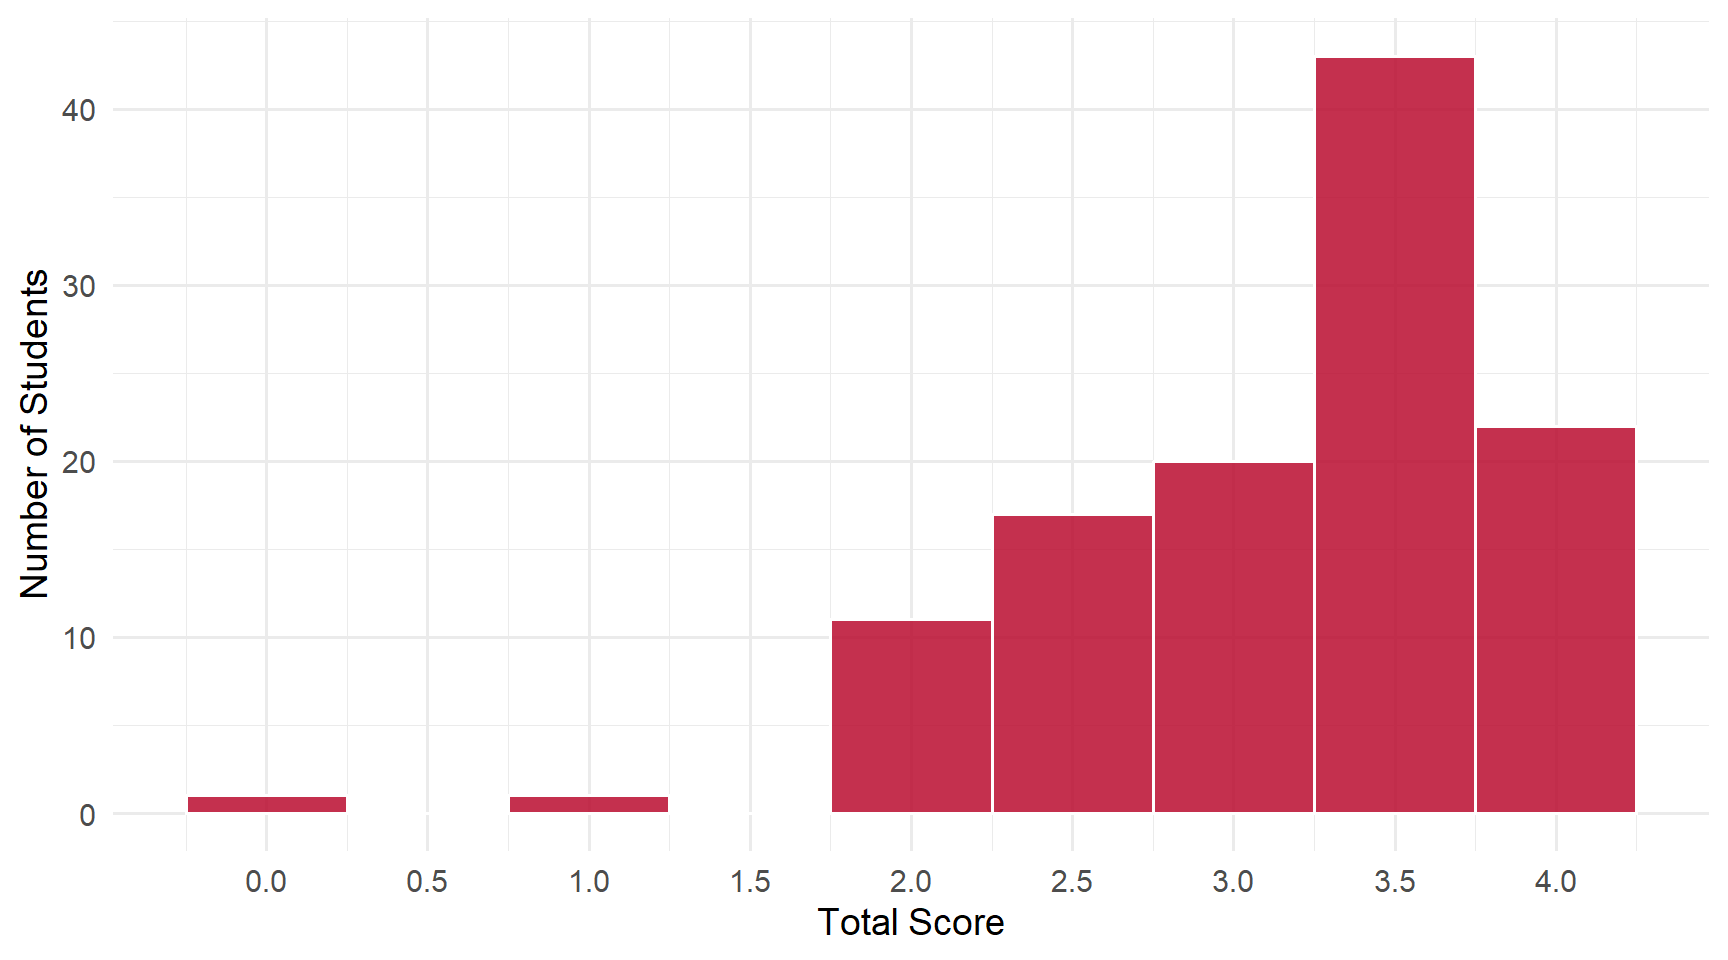
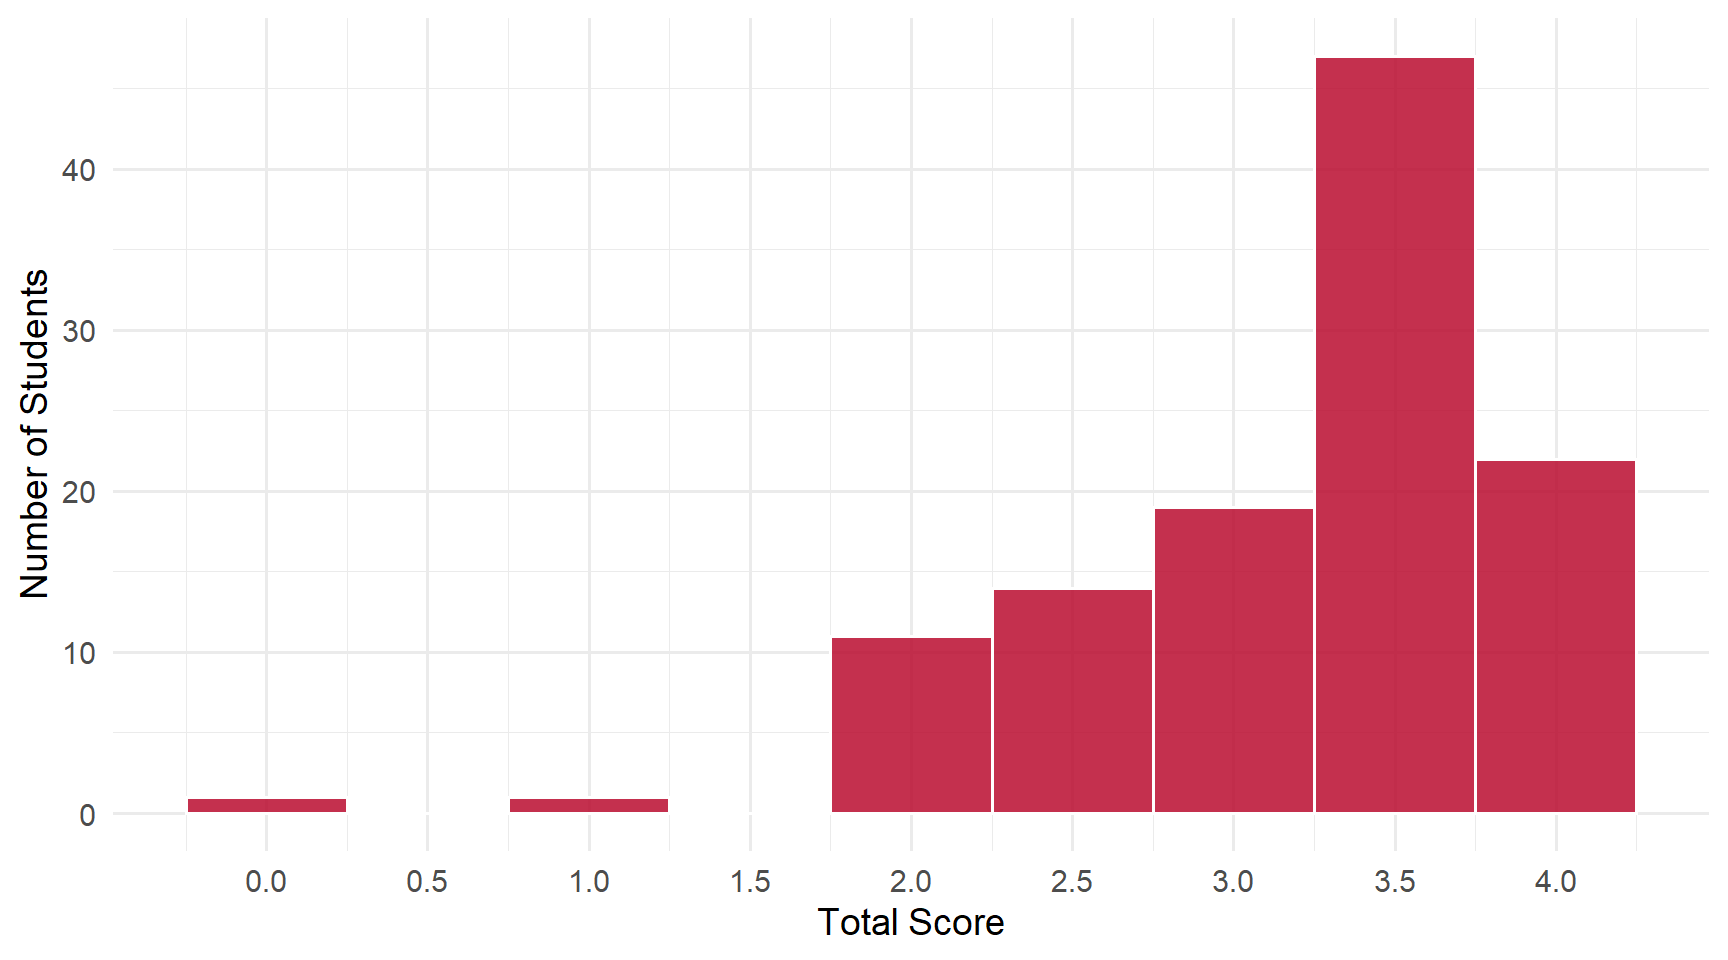
Update Daily 7 and Daily 8 grading corrections
Daily 7: Shortened 1/N vs 1/(N-1) note.
Daily 8: Accept √(var̂(Ȳ)) as full credit for SE formula (7 students updated).
Updated common errors in both dailies.

diff --git a/busn5000-spring2026/daily_08.html b/busn5000-spring2026/daily_08.html
@@ -116,7 +116,6 @@ window.Quarto = {
   </div>
 </nav>
 <style>
-  /* === Main Site Nav Bar (matches Jekyll masthead exactly) === */
   #site-main-nav {
     position: fixed;
     top: 0;
@@ -181,17 +180,11 @@ window.Quarto = {
   body {
     padding-top: 52px !important;
   }
-
-  /* === UGA Typography Overrides for Quarto Content === */
-
-  /* Body text - Georgia (Secondary Serif) */
   body, p, .content, main {
     font-family: Georgia, serif !important;
     letter-spacing: -0.005em;
     line-height: 1.6;
   }
-
-  /* h1 - Oswald (Primary Sans-Serif) */
   h1, .title {
     font-family: 'Oswald', sans-serif !important;
     font-weight: 500;
@@ -199,8 +192,6 @@ window.Quarto = {
     line-height: 1.1;
     color: #BA0C2F;
   }
-
-  /* h2, h3 - Merriweather (Primary Serif) */
   h2, h3 {
     font-family: 'Merriweather', serif !important;
     font-weight: 700;
@@ -208,8 +199,6 @@ window.Quarto = {
     line-height: 1.2;
     color: #BA0C2F;
   }
-
-  /* h4, h5, h6 - Oswald */
   h4, h5, h6 {
     font-family: 'Oswald', sans-serif !important;
     font-weight: 400;
@@ -217,8 +206,6 @@ window.Quarto = {
     line-height: 1.3;
     color: #BA0C2F;
   }
-
-  /* Sidebar navigation - Merriweather Sans (Secondary Sans-Serif) */
   .sidebar-title,
   .sidebar-item-text,
   .sidebar-navigation,
@@ -229,8 +216,6 @@ window.Quarto = {
     font-weight: 400;
     letter-spacing: -0.01em;
   }
-
-  /* Quarto secondary nav / breadcrumbs */
   .quarto-secondary-nav,
   .quarto-page-breadcrumbs,
   .breadcrumb-item,
@@ -238,8 +223,6 @@ window.Quarto = {
     font-family: 'Merriweather Sans', sans-serif !important;
     font-weight: 400;
   }
-
-  /* Tables - Georgia for body, Merriweather Sans for headers */
   table, td {
     font-family: Georgia, serif !important;
     font-size: 0.9em;
@@ -249,8 +232,6 @@ window.Quarto = {
     font-family: 'Merriweather Sans', sans-serif !important;
     font-weight: 600;
   }
-
-  /* Links - UGA Red */
   a {
     color: #BA0C2F;
   }
@@ -258,20 +239,14 @@ window.Quarto = {
     color: #8a091f;
     text-decoration: underline;
   }
-
-  /* Stat boxes and custom elements */
   .stat-box .stat-label,
   .cell-output,
   figcaption {
     font-family: 'Merriweather Sans', sans-serif !important;
   }
-
-  /* Code blocks stay monospace */
   code, pre, .sourceCode {
     font-family: Monaco, Consolas, "Lucida Console", monospace !important;
   }
-
-  /* Page navigation (next/prev) */
   .nav-page,
   .nav-page a {
     font-family: 'Merriweather Sans', sans-serif !important;
@@ -388,7 +363,7 @@ window.Quarto = {
 <section id="class-performance" class="level2">
 <h2 class="anchored" data-anchor-id="class-performance">Class Performance</h2>
 <div class="stat-box">
-<p><strong>Students:</strong> 115 | <strong>Mean:</strong> 3.17 | <strong>Median:</strong> 3.5 | <strong>SD:</strong> 0.71</p>
+<p><strong>Students:</strong> 115 | <strong>Mean:</strong> 3.20 | <strong>Median:</strong> 3.5 | <strong>SD:</strong> 0.71</p>
 </div>
 <p>Scores ranged from <strong>0</strong> to <strong>4</strong> out of 4 points.</p>
 </section>
@@ -569,9 +544,9 @@ Common Errors
 <div id="callout-8" class="callout-8-contents callout-collapse collapse">
 <div class="callout-body-container callout-body">
 <ul>
-<li><strong>Wrote only <span class="math inline">\(\sqrt{\widehat{\text{var}}(\overline{Y})}\)</span> without expanding</strong> — This is the definition but doesn’t show the formula in terms of s<span class="math inline">\(^2\)</span> and N as asked.</li>
 <li><strong>Wrote the sample variance formula instead of SE</strong> — s<span class="math inline">\(^2\)</span> = 1/(N-1)<span class="math inline">\(\sum\)</span>(Y<span class="math inline">\(_i\)</span>-<span class="math inline">\(\overline{Y}\)</span>)<span class="math inline">\(^2\)</span> is the variance, not the standard error. The SE is <span class="math inline">\(\sqrt{s^2/N}\)</span>.</li>
 <li><strong>Wrote the sample mean formula</strong> — <span class="math inline">\(\overline{Y}\)</span> = 1/N <span class="math inline">\(\sum\)</span> Y<span class="math inline">\(_i\)</span> is the sample average, not the standard error formula.</li>
+<li><strong>Missing the square root</strong> — Writing var<span class="math inline">\((\overline{Y})\)</span> = s<span class="math inline">\(^2\)</span>/N gives the variance, not the SE. The SE requires the square root: <span class="math inline">\(\sqrt{s^2/N}\)</span>.</li>
 </ul>
 </div>
 </div>
@@ -584,7 +559,7 @@ Common Errors
 <p><strong>Review:</strong></p>
 <ul>
 <li><strong>“Sampling” vs.&nbsp;“sample” distribution</strong> — the most common error; these are distinct concepts</li>
-<li><strong>SE formula = <span class="math inline">\(\sqrt{s^2/N}\)</span></strong> — not just <span class="math inline">\(\sqrt{\widehat{\text{var}}(\overline{Y})}\)</span> and not the variance formula itself</li>
+<li><strong>SE formula = <span class="math inline">\(\sqrt{s^2/N}\)</span></strong> — equivalently <span class="math inline">\(\sqrt{\widehat{\text{var}}(\overline{Y})}\)</span>; don’t confuse with the variance formula itself</li>
 <li><strong>Normal vs.&nbsp;sampling</strong> — the sampling distribution approaches the normal distribution (don’t swap these answers)</li>
 </ul>
 

diff --git a/busn5000-spring2026/daily_07.html b/busn5000-spring2026/daily_07.html
@@ -117,7 +117,6 @@ window.Quarto = {
   </div>
 </nav>
 <style>
-  /* === Main Site Nav Bar (matches Jekyll masthead exactly) === */
   #site-main-nav {
     position: fixed;
     top: 0;
@@ -182,8 +181,6 @@ window.Quarto = {
   body {
     padding-top: 52px !important;
   }
-
-  /* === UGA Typography Overrides for Quarto Content === */
   body, p, .content, main {
     font-family: Georgia, serif !important;
     letter-spacing: -0.005em;
@@ -411,7 +408,7 @@ Correct Answer
 </div>
 <div id="callout-1" class="callout-1-contents callout-collapse collapse">
 <div class="callout-body-container callout-body">
-<p><strong>var(X) = 1/(N-1) <span class="math inline">\(\sum_i\)</span> (X<span class="math inline">\(_i\)</span> - <span class="math inline">\(\overline{X}\)</span>)<span class="math inline">\(^2\)</span></strong> — the sample variance formula. Either 1/N or 1/(N-1) is acceptable since the course relies on asymptotic results.</p>
+<p><strong>var(X) = 1/(N-1) <span class="math inline">\(\sum_i\)</span> (X<span class="math inline">\(_i\)</span> - <span class="math inline">\(\overline{X}\)</span>)<span class="math inline">\(^2\)</span></strong> — the sample variance formula. Either 1/N or 1/(N-1) is acceptable.</p>
 </div>
 </div>
 </div>
